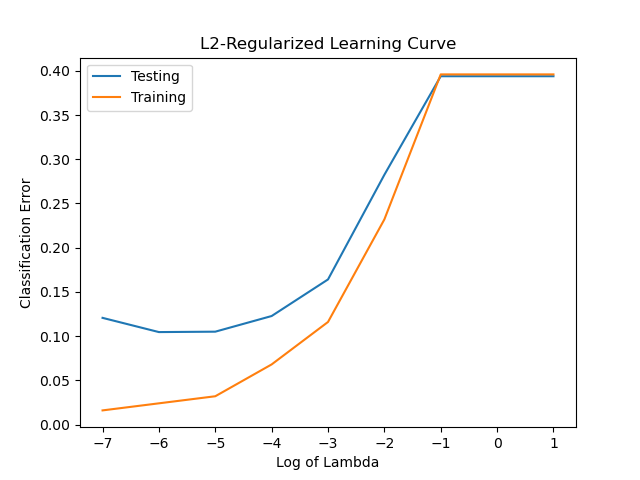
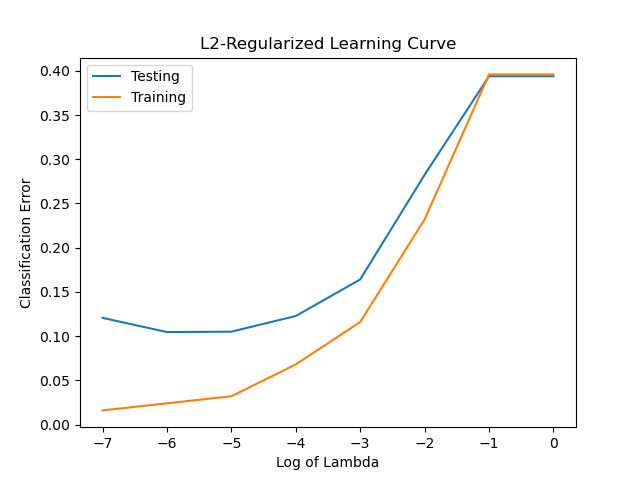
Edit logistic regression graph

diff --git a/PS1-P4.py b/PS1-P4.py
@@ -67,7 +67,7 @@ for j in range(len(regularizer_values)):
         print(k)
     print(j)
 
-xaxis2 = [-7, -6, -5, -4, -3, -2, -1, 1]
+xaxis2 = [-7, -6, -5, -4, -3, -2, -1, 0]
 plt.plot(xaxis2, test_errors_reg, label="Testing")
 plt.plot(xaxis2, train_errors_reg, label="Training")
 plt.xlabel("Log of Lambda")
